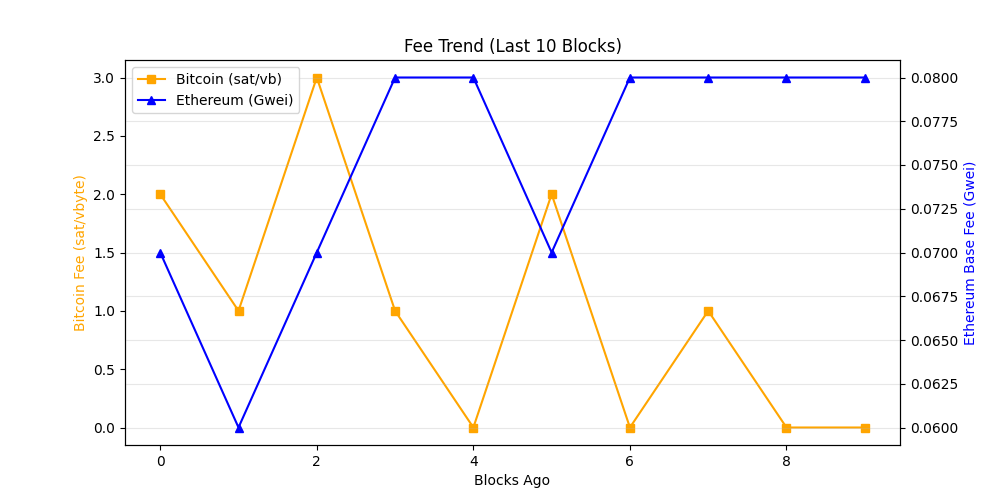
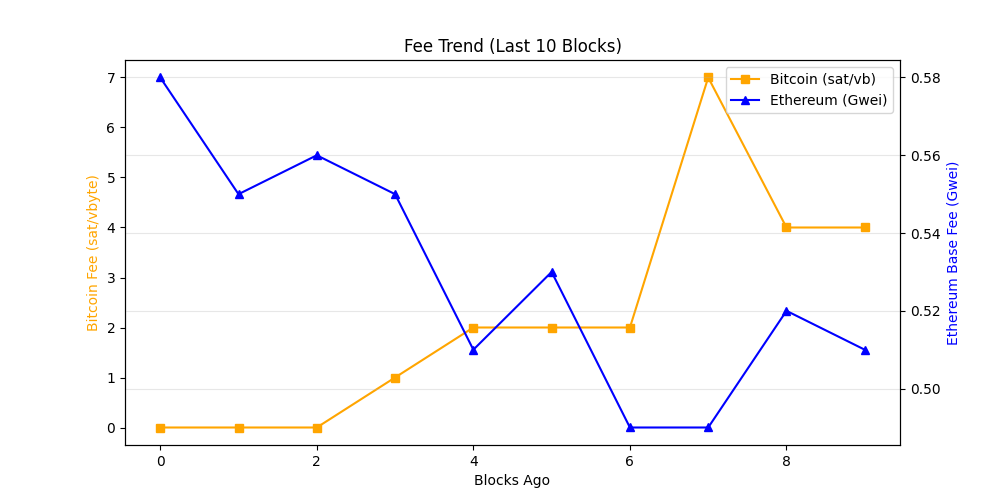
chore: update on-chain dashboard

diff --git a/README.md b/README.md
@@ -19,7 +19,7 @@ The README itself acts as the dashboard and is regenerated automatically on a 6 
 demonstrating a production-style, infrastructure-focused observability workflow rather
 than a traditional UI-driven approach.
 
-_Last updated: 2026-09-03 11:11 UTC_
+_Last updated: 2026-09-03 16:24 UTC_
 
 ## API Usage (GetBlock.io)
 - Calls used: **24**
@@ -27,8 +27,8 @@ _Last updated: 2026-09-03 11:11 UTC_
 ## Network Metrics
 | Chain | Block Height | TX Count | TPS (10 blk avg) | Block Util | Avg Fee |
 |------|-------------|----------|------------------|------------|---------|
-| Ethereum | 25896398 | 193 | 16.08 | 45.91% | 0.1 Gwei |
-| Bitcoin | 965302 | 6789 | 193.97 | 99.79% | N/A |
+| Ethereum | 25897954 | 423 | 35.25 | 73.3% | 0.5 Gwei |
+| Bitcoin | 965341 | 4484 | 13.59 | 99.8% | N/A |
 
 ## Visuals
 ### Transactions Trend
@@ -43,7 +43,11 @@ _Last updated: 2026-09-03 11:11 UTC_
 ## Whale Alerts (latest block)
 - Transaction hashes are truncated for readability.
 - Full hashes are available in `dashboards/metrics.json`
-No whale-sized transfers detected in latest blocks.
+- Bitcoin | 176.24 BTC | `3da3bf0d31d8…`
+- Bitcoin | 1514.49 BTC | `84ae4218a708…`
+- Bitcoin | 309.74 BTC | `ce0ef8559e2a…`
+- Bitcoin | 921.7 BTC | `c49487a619b2…`
+- Bitcoin | 2416.89 BTC | `67f81ef9345f…`
 
 ## Run locally
 
